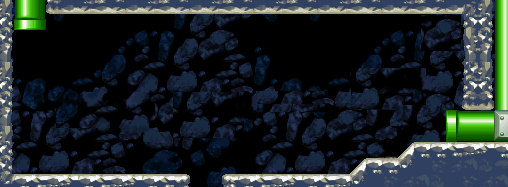
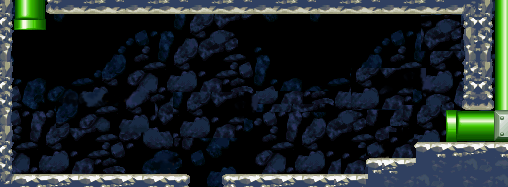
스프라이트 수정
맵 스프라이트 계단식으로 수정
블럭 스프라이트 찾음

Changed region(s): [[0.6496, 0.6952, 0.8563, 1.0]]

diff --git a/stage1_1.py b/stage1_1.py
@@ -1,23 +1,12 @@
 from random import randint
 from pico2d import *
 import game_framework
-import Title_state
+import Select_state
+import stage1_2
 from math import *
 
 sonic_sprite = None
-coin = None
-red_coin = None
-fly = None
-pipe = None
-stage1 = None
-select = None
-select_Stage = None
-select_Stage2 = None
-
-fly_frame = 0
-main_frame = 0
-main_move = False
-
+stage1_1 = None
 
 
 class player:
@@ -82,10 +71,11 @@ class player:
         if self.dir != 0 and self.dir != self.dir2:
             self.plus_move = 0
 
-        if self.x > 970 and self.dir != -1:
-            self.x = 970
-        elif self.x < 30 and self.dir != 1:
-            self.x = 30
+        if self.x > 700 and self.dir != -1:
+            self.x = 700
+        elif self.x < 300 and self.dir != 1:
+            self.x = 300
+
         else:
             if self.fast and self.dir != 0:  # 대시 on
                 self.x += (self.dir * 2) + (self.dir2 * self.plus_move)
@@ -123,7 +113,7 @@ class player:
             if self.frame > 7:
                 delay(0.2)
                 self.GoDown2 = False
-                game_framework.change_state(Title_state)
+                game_framework.change_state(stage1_2)
         else:
             if self.dir == 1:  # 오른쪽
                 if self.fast:  # 대시
@@ -174,7 +164,7 @@ class Block:                         # 파이프
         if self.kind == 0:              # 땅
             pass
         elif self.kind == 1:
-                pipe.clip_draw(0, 300 - (self.top - self.bottom), 100, (self.top - self.bottom),(self.right + self.left) / 2, (self.top + self.bottom) / 2)
+            pass
 
 def crush(A,B):
 
@@ -190,50 +180,32 @@ def crush(A,B):
         return 0
 
 def draw_back():                                   # 배경 그리기
-    global main_frame
-    global main_move
-
-    select.clip_draw(0, 0, 1000, 800, 500, 400)
-    select_Stage.clip_draw(0, 0, 1000, 800, 520, 600, 800, 200 + (main_frame * 3))
-    select_Stage2.clip_draw(0, 0, 1000, 300, 500, 270 - (main_frame * 2))
-
-    if main_move == True:                           # 메인 움직임
-        main_frame = main_frame + 0.1
-    if main_frame > 20:
-        main_move = False
-    if main_move == False:
-        main_frame = main_frame - 0.1
-    if main_frame < 0:
-        main_move = True
-
+    stage1_1.clip_draw(0, 0, 2356, 314, -sonic.x, 400, 6005, 800)
 
 def enter():
     global sonic, b
     global WIDTH, HEIGHT, frame, x, y
-    global sonic_sprite, coin, red_coin, fly
-    global pipe, stage1, select, select_Stage, select_Stage2
+    global sonic_sprite, stage1_1
+
     sonic_sprite = load_image('sonic.png')
-    pipe = load_image('pipe.png')
-    select = load_image('select_back.png')
-    select_Stage = load_image('select_Stage.png')
-    select_Stage2 = load_image('select_Stage2.png')
+    stage1_1 = load_image('1-1-1.png')
+
     WIDTH = 1000
     HEIGHT = 800
 
-    b = [Block(200, 300, 150, 30, 1), Block(450, 550, 200, 30, 1), Block(700, 800, 250, 30, 1),
-         Block(0, 930, 25, 0, 0), Block(930, 1000, 70, 0, 0)]
+    b = [Block(0, 930, 25, 0, 0), Block(930, 1000, 70, 0, 0)]
 
     sonic = player(30, 60)
 
 def exit():
     global sonic, b
     global WIDTH, HEIGHT, frame, x, y
-    global sonic_sprite, pipe, select, select_Stage, select_Stage2
+    global sonic_sprite, stage1_1
+
+    del(sonic_sprite)
+    del(stage1_1)
+
     del(sonic)
-    del(pipe)
-    del(select)
-    del(select_Stage)
-    del(select_Stage2)
     del(b)
 
 def handle_events():
@@ -255,7 +227,7 @@ def handle_events():
             elif event.key == SDLK_DOWN:  # 아래
                 sonic.GoDown = True
             elif event.key == SDLK_ESCAPE:  # ESC
-                game_framework.change_state(Title_state)
+                game_framework.change_state(Select_state)
             elif event.key == SDLK_SPACE:  # 스페이스
                 if sonic.jumpcount == 2:
                     sonic.savey = sonic.y

diff --git a/Select_state.py b/Select_state.py
@@ -2,19 +2,16 @@ from random import randint
 from pico2d import *
 import game_framework
 import Title_state
+import stage1_1
 from math import *
 
 sonic_sprite = None
-coin = None
-red_coin = None
-fly = None
 pipe = None
 stage1 = None
 select = None
 select_Stage = None
 select_Stage2 = None
 
-fly_frame = 0
 main_frame = 0
 main_move = False
 
@@ -41,7 +38,7 @@ class player:
     Jumping = False
     fast = False
     GoDown = False
-    GoDown2 = False
+    GoDown2 = 0
     plus_move = 1
 
     def __init__(self, x, y):
@@ -110,20 +107,33 @@ class player:
             elif crush(self, i) == 2:
                 self.x = i.right + 20
             elif crush(self, i) == 3:
-                if self.GoDown == True and i.kind == 1:
-                    self.GoDown2 = True
-                    self.frame = 0
-                    self.GoDown = False
+                if self.GoDown == True:
+                    if i.kind == 1:
+                        self.GoDown2 = 1
+                        self.frame = 0
+                        self.GoDown = False
+                    if i.kind == 2:
+                        self.GoDown2 = 2
+                        self.frame = 0
+                        self.GoDown = False
+                    if i.kind == 3:
+                        self.GoDown2 = 3
+                        self.frame = 0
+                        self.GoDown = False
                 self.y = i.top + 30
                 self.savey = self.y
 
     def draw(self):
-        if self.GoDown2 == True:
+        if self.GoDown2 == 1 or self.GoDown2 == 2 or self.GoDown2 == 3:
             sonic_sprite.clip_draw(int(self.frame) * 40, 300, 40, 40, self.x, self.y, 60, 60)
             if self.frame > 7:
                 delay(0.2)
-                self.GoDown2 = False
-                game_framework.change_state(Title_state)
+                if self.GoDown2 == 1:
+                    game_framework.change_state(stage1_1)
+                if self.GoDown2 == 2:
+                    game_framework.change_state(Title_state)
+                if self.GoDown2 == 3:
+                    game_framework.change_state(Title_state)
         else:
             if self.dir == 1:  # 오른쪽
                 if self.fast:  # 대시
@@ -173,7 +183,7 @@ class Block:                         # 파이프
     def draw(self):
         if self.kind == 0:              # 땅
             pass
-        elif self.kind == 1:
+        elif self.kind == 1 or self.kind == 2 or self.kind == 3:
                 pipe.clip_draw(0, 300 - (self.top - self.bottom), 100, (self.top - self.bottom),(self.right + self.left) / 2, (self.top + self.bottom) / 2)
 
 def crush(A,B):
@@ -220,7 +230,7 @@ def enter():
     WIDTH = 1000
     HEIGHT = 800
 
-    b = [Block(200, 300, 150, 30, 1), Block(450, 550, 200, 30, 1), Block(700, 800, 250, 30, 1),
+    b = [Block(200, 300, 150, 30, 1), Block(450, 550, 200, 30, 2), Block(700, 800, 250, 30, 3),
          Block(0, 930, 25, 0, 0), Block(930, 1000, 70, 0, 0)]
 
     sonic = player(30, 60)
